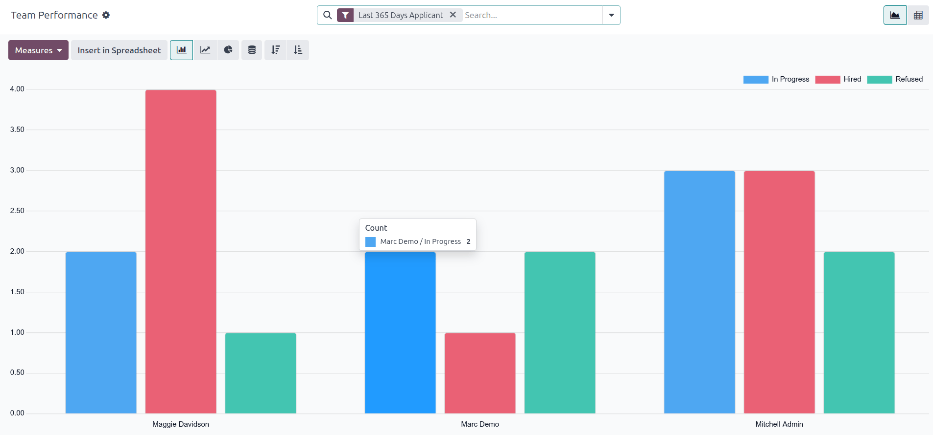
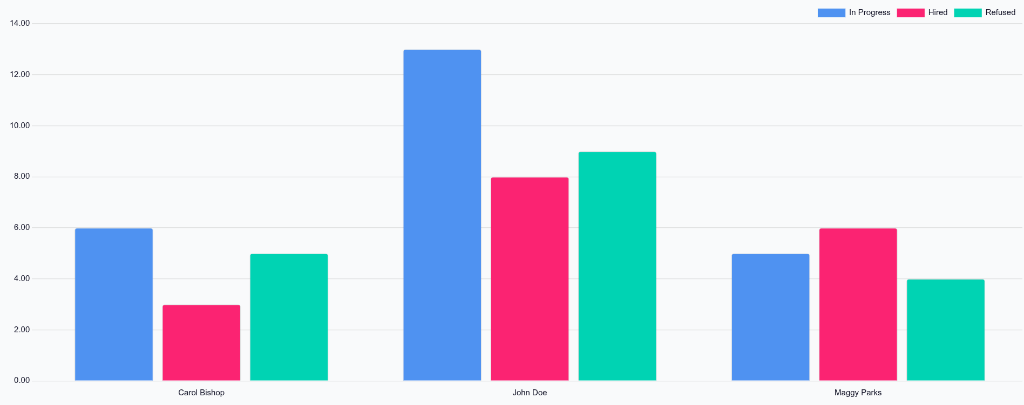
[IMP] Recruitment - Update Team Performance
closes odoo/documentation#19961

X-original-commit: f90b678bb3bc30b3427404a27988892bd5300a50

diff --git a/content/applications/hr/recruitment/team_performance.rst b/content/applications/hr/recruitment/team_performance.rst
@@ -2,23 +2,22 @@
 Team performance
 ================
 
-The *Team Performance* report in the **Recruitment** app shows how many applicants each recruiter is
-managing.
+The *Team Performance* report in the **Recruitment** app shows how many applicants each recruiter
+manages and what stage their applicants are at.
 
 This information is determined by the individuals populating the :ref:`Recruiter
 <recruitment/add_applicants/applicant-details>` field on each applicant form.
 
-Open report
+View report
 ===========
 
-To access the *Team Performance* report, navigate to :menuselection:`Recruitment app --> Reporting
---> Team Performance`.
+To view the *Team Performance* report, navigate to :menuselection:`Recruitment app --> Reporting -->
+Team Performance`.
 
-The number of :guilabel:`In Progress`, :guilabel:`Hired`, and :guilabel:`Refused` applicants for
-each recruiter is displayed in a default :icon:`fa-area-chart` :guilabel:`(Graph)` view.
-
-The information shown is for the :icon:`fa-filter` :guilabel:`Last 365 Days Applicant` default
-filter, as displayed in the search bar.
+For each recruiter, the number of :guilabel:`In Progress`, :guilabel:`Hired`, and
+:guilabel:`Refused` applicants is displayed in a default :icon:`fa-bar-chart` :guilabel:`(Bar
+Chart)` view. The default :guilabel:`Last 365 Days Applicant` filter shows all applicants for the
+last 365 days.
 
 Hover the cursor over any column to view a popover window, displaying the specific details for that
 column.
@@ -26,66 +25,25 @@ column.
 .. image:: team_performance/team-performance.png
    :alt: The default bar chart of the team performance report.
 
+.. _recruitment/team_performance/pivot:
+
 Pivot table view
 ----------------
 
-For a more detailed view of the information in the :guilabel:`Team Performance` report, click the
-:icon:`oi-view-pivot` :guilabel:`(Pivot)` icon in the top-right corner. This displays all the
-information in a pivot table.
+For a more detailed view of the information in the *Team Performance* report, click the
+:icon:`oi-view-pivot` :guilabel:`(Pivot)` icon. This displays all the information in a pivot table.
 
-In this view, the job positions populate the rows, while the columns populate the number of
-applicants. The first column, :guilabel:`Applicant`, is the total number of applicants across all
-stages for that job position. The subsequent columns display the total applicants that have been
-:guilabel:`Hired`, :guilabel:`Refused`, and :guilabel:`In Progress` for each job position.
+In this view, the recruiters populate the rows, while the columns are populated with the number of
+applicants in each stage. Each column displays the total number of applicants who are still
+:guilabel:`In Progress`, have been :guilabel:`Hired`, or have been :guilabel:`Refused`. The last
+column, :guilabel:`Applications`, is the total number of applicants across all stages for that
+recruiter.
 
-The displayed information can be modified, if desired.
+In this example, there are 59 applicants in total. Of those 59, 17 have been hired, 18 have been
+refused, and 24 are still in the recruitment process.
 
-In this example, there are 20 total applicants. Out of those 20, eight have been hired, five have
-been refused, and seven are still in the recruitment process.
-
-From the data presented, the :guilabel:`Experienced Developer` job position is the most successful.
-This job position has one of the highest number of total applicants (tied with the
-:guilabel:`Marketing and Community Manager` position), as well as the most hires.
-
-This pivot table also shows that the :guilabel:`Quality Control Inspector` position is the hardest
-to fill, as it has the fewest total applicants.
+Based on the data presented, :guilabel:`John Doe` is the most successful recruiter, with a total of
+eight hires, while :guilabel:`Carol Bishop` has the fewest hires, with only three.
 
 .. image:: team_performance/team-perf-pivot.png
    :alt: The detailed pivot table view.
-
-Use case: recruiter performance over time
-=========================================
-
-One way to modify this report is to show how recruiters are performing over time. To show this
-information, begin with the :guilabel:`Team Performance` report in the :icon:`oi-view-pivot`
-:guilabel:`(Pivot)` view.
-
-Next, click the :icon:`fa-caret-down` :guilabel:`(down arrow)` in the search bar, revealing a
-drop-down menu. Click :guilabel:`Add Custom Group` :icon:`fa-caret-down` at the bottom of the
-:icon:`oi-group` :guilabel:`Group By` column, then click :guilabel:`Recruiter`. Click away from the
-drop-down menu to close it. Now, each row on the table represents a recruiter.
-
-.. image:: team_performance/by-recruiter.png
-   :alt: The pivot table now displaying the recruiters in the rows.
-
-To compare the team's performance over different time periods, click the :icon:`fa-caret-down`
-:guilabel:`(down arrow)` in the search bar. Click :guilabel:`Application Date` :icon:`fa-caret-down`
-in the :icon:`fa-filter` :guilabel:`Filters` column, revealing various time periods to select.
-
-In this example, the desired data is the comparison between the team's performance in the third
-quarter (June - August) and the second quarter (April - July). To do so, click :guilabel:`Q3`. Once
-clicked, the current year is also ticked. In this example, it is :guilabel:`2025`.
-
-After making this selection, a :icon:`fa-adjust` :guilabel:`Comparison` column appears. Click
-:guilabel:`Start Date: Previous Period` to compare the third quarter with the second quarter, for
-the various recruiters.
-
-.. image:: team_performance/compare.png
-   :alt: A comparison table of recruiter totals of Q2 and Q3.
-
-From this report, some things can be extrapolated: the total number of applicants, the number of
-hired applicants, the number of refused applicants, and the number of applicants still in the
-recruitment pipeline all increased.
-
-Additionally, :guilabel:`Maggie Davidsons` had the highest increase in number of hired applicants
-during the third quarter, while their number of refused applicants went down.
